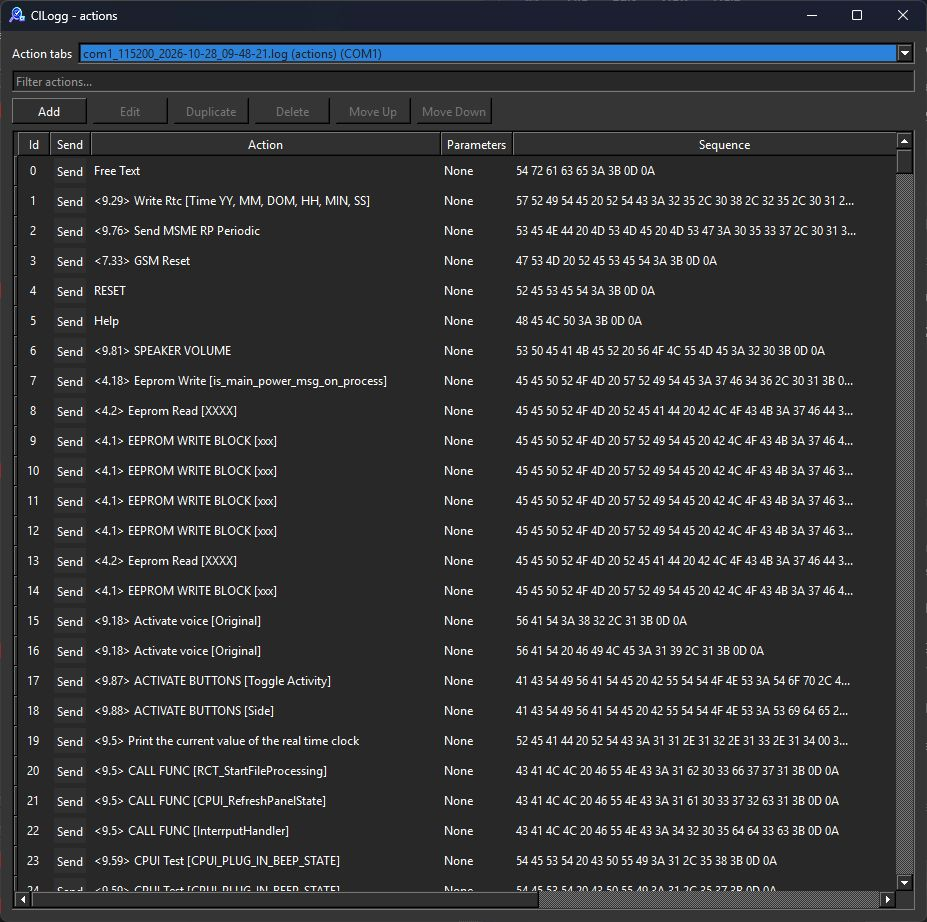
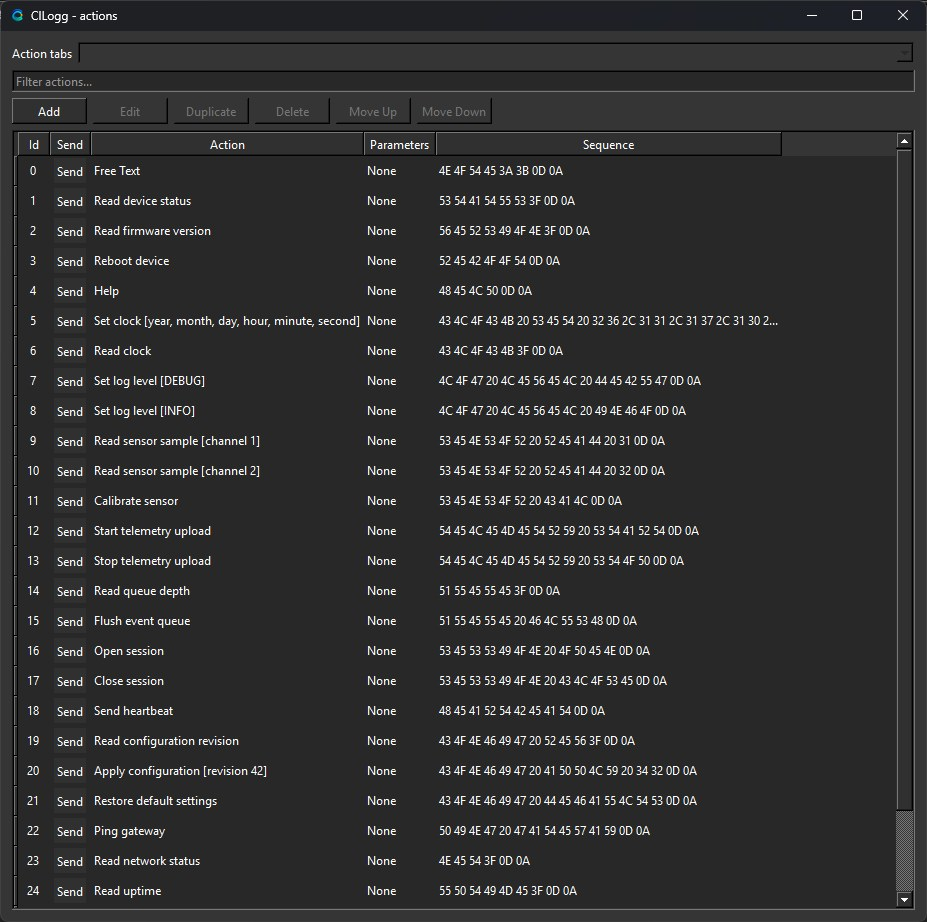
docs: re-shoot device-workflow and highlighter screenshots with demo config
Replace the actions, responses, response-editor and highlighters showcase
images (docs/images and the identical website/static/screenshots copies)
with captures of an isolated portable CILogg that loads an invented
demo-device configuration for the device=demo-NN fixture scenario: 28
actions, 26 responses, six highlighter sets. No serial port was opened,
so the Actions window's action-tab selector is empty.

Update the captions and alt text that named the previous content or a
COM destination, and record the new capture conditions.

diff --git a/docs/screenshots.md b/docs/screenshots.md
@@ -1,8 +1,10 @@
 # CILogg in pictures
 
-**Explore ten views of the normal installed Windows application.** These screenshots
-come from CILogg **26.04.2.1078**, captured on 28 October 2026. Click an image to
-open it at full resolution.
+**Explore ten views of the Windows application.** Six screenshots come from the
+normal installed CILogg **26.04.2.1078**, captured on 28 October 2026. The Actions,
+Responses, response editor, and Highlighters views were captured again on
+17 November 2026 from a local 26.04.2 build, using an invented demo-device
+configuration. Click an image to open it at full resolution.
 
 [Project overview](../README.md) · [User guide](../DOCUMENTATION.md) ·
 [Sample investigation](../DOCUMENTATION.md#your-first-investigation)
@@ -34,25 +36,29 @@ occurrence, or export CSV. [Value Counts guide →](value-counts.md)
 
 ### Actions: keep commands ready to use
 
-[![Actions window showing a COM destination, reusable device commands, and transmit sequences](images/actions-showcase.jpg)](images/actions-showcase.jpg)
+[![Actions window showing the action-tab selector, reusable device commands, and transmit sequences](images/actions-showcase.jpg)](images/actions-showcase.jpg)
 
-Select an action destination and browse reusable command definitions.
+Browse reusable command definitions and the bytes each one sends. Connected tabs
+with Actions enabled appear in the **Action tabs** selector; no device is connected
+in this capture, so the selector is empty.
 [Actions and routing guide →](multiple-action-tabs.md)
 
 ### Responses: react to the log
 
-[![Responses window with enabled match rules and an automatic-response switch](images/responses-showcase.jpg)](images/responses-showcase.jpg)
+[![Responses window with text, hex, and regex match rules and an automatic-response switch](images/responses-showcase.jpg)](images/responses-showcase.jpg)
 
-Configure which incoming patterns should trigger a response.
+Configure which incoming patterns should trigger a response: plain text, hex
+bytes, or a regular expression.
 [Automatic responses guide →](automatic-responses.md)
 
 ### Response editor: connect a trigger to a sequence
 
-[![Response editor with the Panel Ready match, linked actions, delays, and snapshot option](images/response-editor-showcase.jpg)](images/response-editor-showcase.jpg)
+[![Response editor with the Gateway ready match, linked actions, delays, and snapshot option](images/response-editor-showcase.jpg)](images/response-editor-showcase.jpg)
 
-This configured response matches `Panel Ready`, then runs linked actions with
-delays. The editor also exposes comments, timestamps, snapshots, and communication
-controls. It was opened for inspection and cancelled without saving changes.
+This configured response matches `Gateway ready` as hex bytes, then runs four
+linked actions 100 ms apart and requests a snapshot. The editor also exposes
+comments, timestamps, and communication controls. It was opened for inspection
+and cancelled without saving changes.
 
 ## Sources and automation
 
@@ -83,7 +89,7 @@ active tab. This screenshot shows the controls before a script is selected.
 
 ### Highlighters: make important events stand out
 
-[![Highlighter editor showing reusable sets, colored patterns, and color controls](images/highlighters-showcase.jpg)](images/highlighters-showcase.jpg)
+[![Highlighter editor showing reusable demo sets, colored patterns, and color controls](images/highlighters-showcase.jpg)](images/highlighters-showcase.jpg)
 
 Organize patterns into sets and choose whole-line or match-only colors.
 [Highlighter guide →](../DOCUMENTATION.md#using-highlighters)

diff --git a/docs/images/README.md b/docs/images/README.md
@@ -10,19 +10,27 @@ The viewer uses the installation's existing dark theme, font, and highlighter se
 | `workspace.jpg` | Full log and `ERROR\|WARN` search; 30 matching rows with the live COM tabs visible. |
 | `regex-lab-showcase.jpg` | Sample evaluation with named `level` and `service` groups; 120 retained rows and the first result selected. |
 | `value-counts-showcase.jpg` | Counts of the `level` capture: INFO 70, DEBUG 20, WARN 20, ERROR 10. |
-| `actions-showcase.jpg` | Configured device actions, action-tab routing, and transmit sequences. |
-| `responses-showcase.jpg` | Configured match rules and enabled automatic responses. |
-| `response-editor-showcase.jpg` | The Panel Ready trigger, linked actions, delays, and snapshot option. |
+| `actions-showcase.jpg` | Demo-device actions (status, firmware version, reboot, ...) with their transmit sequences; the action-tab selector is empty because no device is connected. |
+| `responses-showcase.jpg` | Text, hex, and regex match rules with enabled and disabled automatic responses; rule 2 selected. |
+| `response-editor-showcase.jpg` | The `Gateway ready` trigger as hex bytes, four linked actions 100 ms apart, and the snapshot option. |
 | `plugins-showcase.jpg` | Installed ADB Logcat, Syslog Server, and example plugins. |
 | `syslog-settings-showcase.jpg` | Syslog encoding, output format, severity, and sender restrictions. |
 | `script-runner-showcase.jpg` | Script Runner's global/per-tab controls before selecting a script. |
-| `highlighters-showcase.jpg` | Configured highlighter sets, patterns, and foreground/background colors. |
+| `highlighters-showcase.jpg` | Demo highlighter sets, the `Device health` patterns, and foreground/background colors. |
 
 Log and analysis views use the synthetic
-[device-session.txt](../examples/device-session.txt) fixture. Other tool windows
-show the normal installation's configuration. No device commands were sent and
-no scripts or listeners were started for these captures. Editors were cancelled;
-the temporary sample tab was closed and the original COM tab restored afterward.
+[device-session.txt](../examples/device-session.txt) fixture. No device commands
+were sent and no scripts or listeners were started for these captures. Editors
+were cancelled; the temporary sample tab was closed and the original COM tab
+restored afterward.
+
+The four device-workflow and highlighter images (`actions-showcase.jpg`,
+`responses-showcase.jpg`, `response-editor-showcase.jpg`, `highlighters-showcase.jpg`)
+were captured again on 17 November 2026 from a local 26.04.2 build. That run used
+an isolated portable copy with its own settings, the same dark theme, and an
+invented configuration for the `device=demo-NN` scenario of the fixture: 28
+actions, 26 responses, and six highlighter sets. No serial port was opened. The
+other tool windows show the normal installation's configuration.
 
 To reproduce the analysis views, follow
 [Your first investigation](../../DOCUMENTATION.md#your-first-investigation).

diff --git a/README.md b/README.md
@@ -78,8 +78,8 @@ Log views use the included [sample device log](docs/examples/device-session.txt)
 <td width="50%"><strong>🔁 React to incoming logs</strong><br>Configure match rules and automatic responses.</td>
 </tr>
 <tr>
-<td><a href="docs/images/actions-showcase.jpg"><img src="docs/images/actions-showcase.jpg" alt="Normal CILogg Actions window with COM routing and reusable command sequences" width="100%"></a></td>
-<td><a href="docs/images/responses-showcase.jpg"><img src="docs/images/responses-showcase.jpg" alt="Normal CILogg Responses window with enabled match rules" width="100%"></a></td>
+<td><a href="docs/images/actions-showcase.jpg"><img src="docs/images/actions-showcase.jpg" alt="CILogg Actions window with the action-tab selector and reusable command sequences" width="100%"></a></td>
+<td><a href="docs/images/responses-showcase.jpg"><img src="docs/images/responses-showcase.jpg" alt="CILogg Responses window with text, hex and regex match rules" width="100%"></a></td>
 </tr>
 <tr>
 <td><strong>🧩 Connect more log sources</strong><br>Manage bundled ADB Logcat and Syslog plugins.</td>

diff --git a/website/content/_index.md b/website/content/_index.md
@@ -51,7 +51,7 @@ Discover the values that dominate your log, then filter, navigate, or export CSV
 
 | Reusable device commands | Automatic responses |
 | --- | --- |
-| [![Actions with COM routing and command sequences](screenshots/actions-showcase.jpg)](screenshots/actions-showcase.jpg) | [![Responses with configured match rules](screenshots/responses-showcase.jpg)](screenshots/responses-showcase.jpg) |
+| [![Actions with the action-tab selector and command sequences](screenshots/actions-showcase.jpg)](screenshots/actions-showcase.jpg) | [![Responses with configured match rules](screenshots/responses-showcase.jpg)](screenshots/responses-showcase.jpg) |
 
 | Bundled sources and plugins | Highlighter sets |
 | --- | --- |

diff --git a/DOCUMENTATION.md b/DOCUMENTATION.md
@@ -104,7 +104,7 @@ to incoming lines. Typed parameters let a command definition guide data entry.
 
 The response editor links an incoming match to a sequence of actions and delays:
 
-[![Response editor showing the Panel Ready trigger and linked action steps](docs/images/response-editor-showcase.jpg)](docs/images/response-editor-showcase.jpg)
+[![Response editor showing a Gateway ready trigger and linked action steps](docs/images/response-editor-showcase.jpg)](docs/images/response-editor-showcase.jpg)
 
 - [Commander and serial workflows](README.md#commander-automation)
 - [Routing actions across multiple serial tabs](docs/multiple-action-tabs.md)

diff --git a/docs/multiple-action-tabs.md b/docs/multiple-action-tabs.md
@@ -1,6 +1,6 @@
 # Multiple Actions tabs
 
-![Normal CILogg Actions window with the action-tab selector and reusable commands](images/actions-showcase.jpg)
+![CILogg Actions window with the action-tab selector and reusable commands; no destination is connected](images/actions-showcase.jpg)
 
 Every live communication tab has its own **Actions enabled** flag. Enable or
 disable it in the tab's right-click menu or **File > COM ports > port > Actions

diff --git a/docs/automatic-responses.md b/docs/automatic-responses.md
@@ -1,6 +1,6 @@
 # Per-tab automatic responses
 
-![Normal CILogg Responses window with configured match rules](images/responses-showcase.jpg)
+![CILogg Responses window with configured match rules](images/responses-showcase.jpg)
 
 [Inspect the response editor →](images/response-editor-showcase.jpg) or browse the
 [complete screenshot gallery](screenshots.md#device-workflows).
